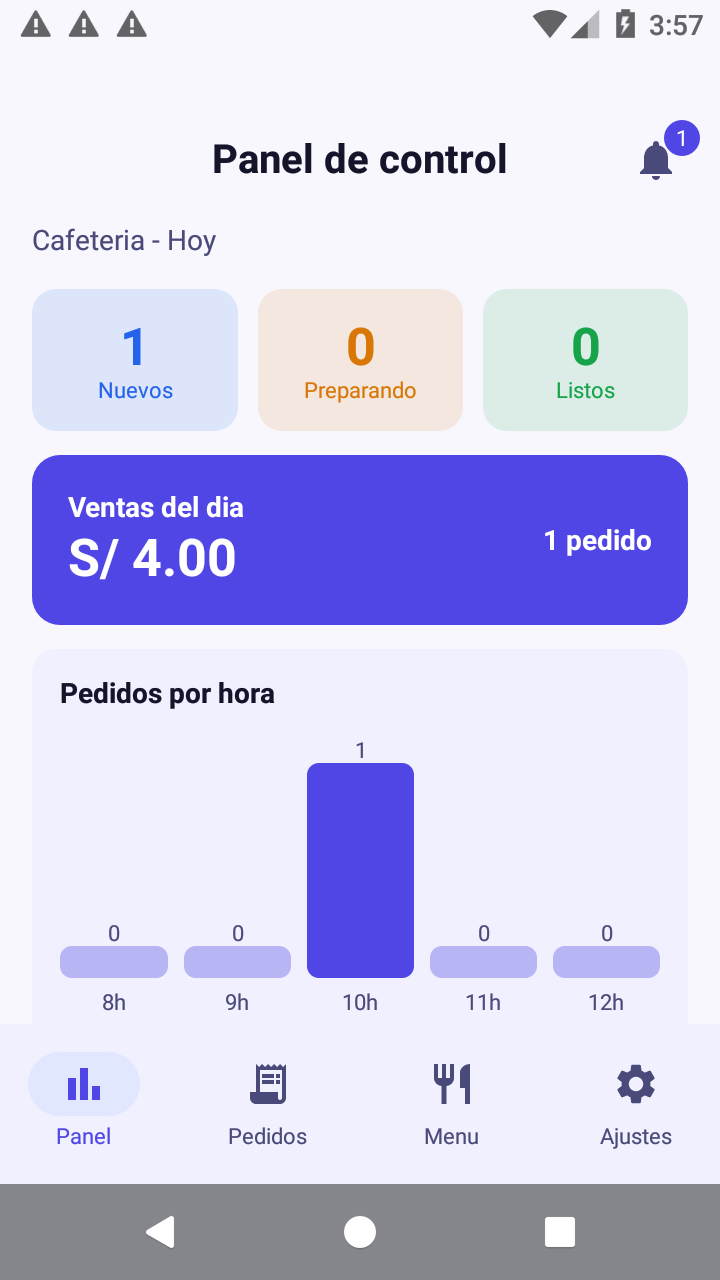
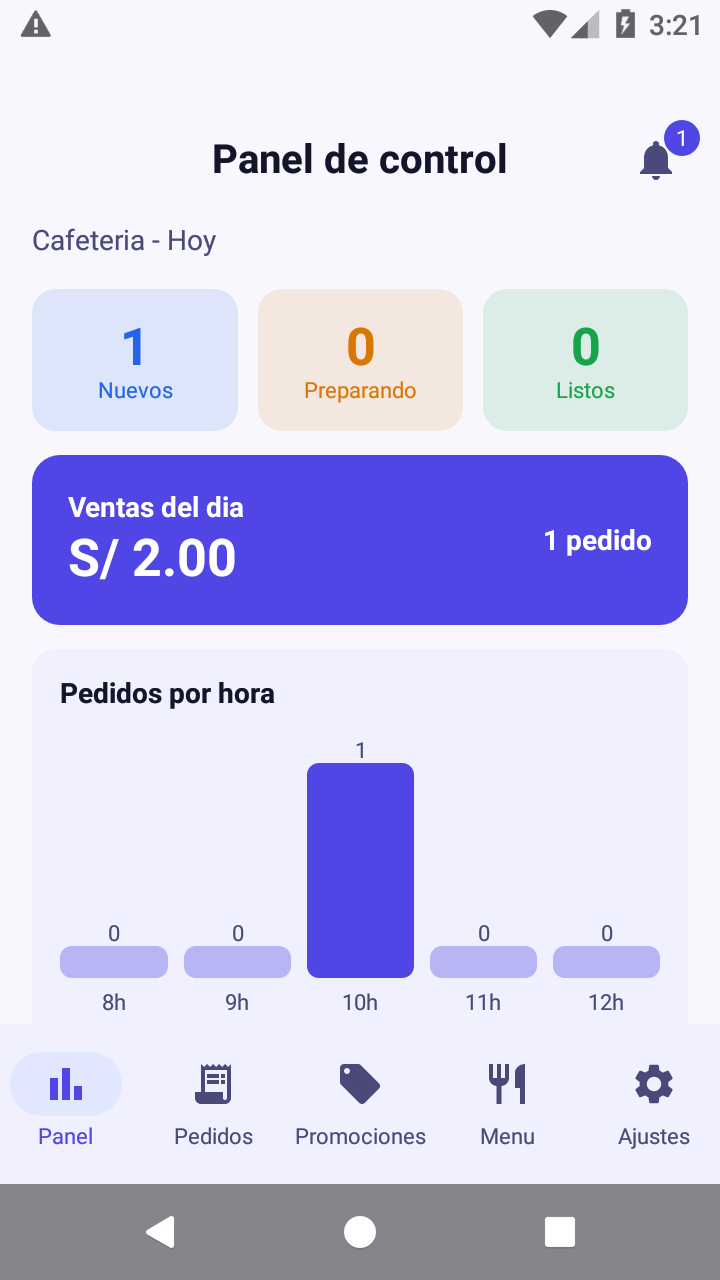
ia: agrega README.md con la documentacion de la entrega
Documentacion de la Fase 2, con lo que pide el enunciado:

- Descripcion de la app y de los dos perfiles, con las cuentas de
  prueba.
- Las 5 mejoras de la Fase 2 y en que capas se tocaron.
- 12 capturas reales del emulador: ambos perfiles, incluyendo las
  pantallas nuevas (registro, busqueda, boton Repetir y reporte del
  dia).
- Estructura de paquetes completa.
- Las 5 tablas con sus claves (PK, FK, candidatas y compuestas) y las
  reglas de negocio de estados y promociones.
- Las respuestas de la seccion 9 'Para pensar'.
- Como compilar y la tabla de commits de esta fase.

diff --git a/Semana08/CafeCampus(Con-IA)/app/src/main/java/com/huaman/cafecampus/ui/navigation/NavCafe.kt b/Semana08/CafeCampus(Con-IA)/app/src/main/java/com/huaman/cafecampus/ui/navigation/NavCafe.kt
@@ -120,6 +120,7 @@ fun NavCafe(
     val sinBarra = rutaActual in listOf(
         Rutas.SPLASH,
         Rutas.LOGIN,
+        Rutas.REGISTRO,
         Rutas.DETALLE_PRODUCTO,
         Rutas.CONFIRMAR_PEDIDO,
         Rutas.SEGUIMIENTO,

diff --git a/Semana08/CafeCampus(Con-IA)/README.md b/Semana08/CafeCampus(Con-IA)/README.md
@@ -1,0 +1,206 @@
+# CafeCampus (Con-IA)
+
+**Laboratorio MVVM + Room — Semana 08 (Fase 2, con IA)**
+TECSUP · Programación en Móviles · 4to Ciclo · Diseño y Desarrollo de Software
+**Juan León Suiyon**
+
+> Rama `Con-IA`. Es la **Fase 2** del laboratorio: la app base de la
+> [Fase 1](https://github.com/Jamestecsup/-Moviles_Android/tree/Sin-IA) (rama
+> `Sin-IA`) más **5 mejoras** hechas con asistencia de IA, documentadas en
+> [`PROMPTS.md`](PROMPTS.md).
+
+---
+
+## 1. Qué es CafeCampus
+
+App de pedidos para la cafetería del campus, con **dos perfiles en el mismo
+dispositivo** sobre una **única base de datos Room**:
+
+- **Estudiante** — pide, sigue su pedido y puede repetir un pedido anterior.
+- **Administrador** — atiende los pedidos, gestiona el menú y las promociones,
+  y consulta el reporte del día.
+
+Cuando el administrador cambia el estado de un pedido, el estudiante lo ve
+reflejado **sin reiniciar la app**: las pantallas observan `Flow` de Room.
+
+**Stack:** Kotlin · Jetpack Compose + Material 3 (sin XML) · Room 2.8.5 ·
+DataStore · Navigation Compose · **MVVM + Repository (interface)**.
+
+### Cuentas de prueba
+
+| Perfil | Correo | Clave |
+|---|---|---|
+| Estudiante | `juan@campus.test` | `1234` |
+| Administrador | `admin@cafe.test` | `admin` |
+
+> Los datos son **ficticios** (Ley 29733). Las fotos de producto vienen de
+> Wikimedia Commons con licencias libres (ver
+> `app/src/main/assets/img/productos/ATRIBUCIONES.md`).
+
+---
+
+## 2. Mejoras de la Fase 2
+
+| # | Mejora | Capas |
+|---|---------|-------|
+| 1 | **Repetir pedido** — botón en el historial que vuelve a cargar los productos al carrito | ViewModel + View |
+| 2 | **Registro de estudiante** — pantalla de cuenta nueva con validaciones y correo único | DAO + Repository + ViewModel + View |
+| 3 | **Reporte del día** — producto más vendido y total por forma de pago, con consultas reales de Room | DAO + Repository + ViewModel + View |
+| 4 | **Animaciones y estados vacíos** — stepper animado, transiciones e ilustraciones | View |
+| 5 | **Buscar en el menú** — el filtro pasa al `MenuViewModel` (`combine` de `StateFlow`) | ViewModel + View |
+
+Los prompts usados, lo que generó la IA, lo que hubo que corregir a mano y la
+reflexión están en [`PROMPTS.md`](PROMPTS.md).
+
+---
+
+## 3. Capturas
+
+### Perfil Estudiante
+
+| Menú con promociones | Buscar en el menú | Repetir pedido |
+|---|---|---|
+| ![Menú](capturas/01_menu_cliente.png) | ![Búsqueda](capturas/03_busqueda_menu.png) | ![Mis pedidos](capturas/05_mis_pedidos_repetir.png) |
+
+| Crear cuenta (nuevo) | Seguimiento del pedido |
+|---|---|
+| ![Registro](capturas/02_registro_estudiante.png) | ![Seguimiento](capturas/04_seguimiento.png) |
+
+### Perfil Administrador
+
+| Panel de control | Reporte del día (nuevo) | Pedidos por estado |
+|---|---|---|
+| ![Panel](capturas/07_panel_admin.png) | ![Reporte](capturas/09_reporte_del_dia.png) | ![Pedidos](capturas/10_pedidos_admin.png) |
+
+| Gestión de promociones | Gestión del menú |
+|---|---|
+| ![Promociones](capturas/11_promociones_admin.png) | ![Menú admin](capturas/12_menu_admin.png) |
+
+---
+
+## 4. Estructura de paquetes
+
+```
+com.huaman.cafecampus
+├── CafeApp.kt                     Application: base Room + siembra de datos
+├── MainActivity.kt                arma NavCafe + CafeTheme(rol)
+├── data
+│   ├── local
+│   │   ├── CafeDatabase.kt        singleton Room (cafecampus.db), version 3
+│   │   ├── DatosIniciales.kt      6 productos, 2 usuarios, 2 promociones
+│   │   ├── entity                 Producto · Usuario · Pedido · DetallePedido
+│   │   │                          Promocion
+│   │   ├── dao                    ProductoDao · UsuarioDao · PedidoDao
+│   │   │                          PromocionDao
+│   │   └── relation               PedidoConDetalle · ProductoVendido
+│   │                              TotalPorPago
+│   ├── prefs
+│   │   └── PreferenciasStore.kt   DataStore (perfil, modo oscuro, pedidos)
+│   └── repository
+│       ├── CafeRepository.kt        EL CONTRATO (interface)
+│       └── CafeRepositoryRoom.kt    la única que conoce los DAOs
+├── model                           Rol · EstadoPedido · ItemCarrito
+│                                   ProductoEnOferta · CalculoPromociones
+├── viewmodel
+│   ├── CafeViewModelFactory.kt     ViewModels compartidos
+│   ├── MenuViewModel.kt            carta, promociones, búsqueda y carrito
+│   ├── SesionViewModel.kt          login, registro y preferencias
+│   ├── PedidosClienteViewModel.kt  confirmar, seguir y repetir pedido
+│   ├── PanelAdminViewModel.kt      panel de control
+│   ├── PedidosAdminViewModel.kt    bandeja por estado
+│   ├── MenuAdminViewModel.kt       alta/edición/baja del menú
+│   ├── PromocionesViewModel.kt     crear/editar/activar/eliminar promociones
+│   └── ReporteViewModel.kt         reporte del día
+└── ui
+    ├── theme                       Color · Type · Theme (CafeTheme(rol))
+    ├── components                  AppTopBar · CafeButton · CafeTextField
+    │                               EstadoChip · EstadoVacio · ProductoCard
+    │                               ProductoIcono · ImagenProducto · PedidoCard
+    │                               StepperEstado
+    ├── navigation                  Rutas · NavCafe
+    ├── cliente                     Splash · Login · Registro · Menu
+    │                               DetalleProducto · ConfirmarPedido
+    │                               Seguimiento · MisPedidos · Perfil
+    │                               Promociones
+    └── admin                       Panel · PedidosAdmin · DetallePedidoAdmin
+                                    MenuAdmin · FormularioProducto
+                                    FormularioPromocion · Reporte · Ajustes
+```
+
+---
+
+## 5. Base de datos
+
+`app/src/main/assets/db/cafecampus.sql` es la fuente de verdad del esquema
+(5 tablas). Room genera exactamente esas tablas.
+
+| Tabla | Columnas | Claves |
+|---|---|---|
+| `usuarios` | id, nombre, correo, clave, rol | **PK** `id` · **candidata** `correo` UNIQUE |
+| `productos` | id, nombre, descripcion, categoria, precio, disponible, icono, imagenRuta | **PK** `id` · **candidata** `nombre` UNIQUE |
+| `pedidos` | id, clienteId, estado, horaRecojo, pago, nota, total, fecha | **PK** `id` · **FK** `clienteId` → `usuarios.id` |
+| `detalle_pedido` | id, pedidoId, productoId, nombreProducto, cantidad, precioUnitario | **PK** `id` · **FK** `pedidoId` → `pedidos.id` (CASCADE) · **compuesta** `(pedidoId, productoId)` UNIQUE |
+| `promociones` | id, tipo, valorReferencia, descuentoPorcentaje, fechaInicio, fechaFin, activo | **PK** `id` · **compuesta** `(tipo, valorReferencia)` UNIQUE |
+
+### Reglas de negocio
+
+- **Estados del pedido:** `RECIBIDO → PREPARANDO → LISTO → ENTREGADO`, con
+  `CANCELADO` aparte.
+- **Promociones:** aplican a **un producto** o a **una categoría** entera. Si un
+  producto tiene ambas, **gana la del producto** (es más específica). Solo
+  cuentan las vigentes (`activo` y dentro de `fechaInicio`/`fechaFin`).
+- **El pedido guarda el precio final**: es una foto del momento, así que si
+  luego se edita la promoción, ese pedido no cambia.
+
+---
+
+## 6. 9. Para pensar
+
+| Pregunta | Tu respuesta |
+|---|---|
+| ¿Por qué el Repository es una interface? | Para que la app dependa del *contrato* y no de SQLite: mañana puede hablar con un servidor sin tocar ni un ViewModel ni una pantalla. |
+| ¿Por qué `crearPedido` es suspend y `observarPedidosCliente` es Flow? | `crearPedido` cambia datos una sola vez: se espera y listo. `observar...` debe *avisar* cuando cambian, así que emite el pedido actual y cada vez que otro perfil lo modifique. |
+| ¿Qué pasaría si dos perfiles usaran bases de datos distintas? | El estudiante vería un pedido que el administrador nunca vería: se rompería justo lo central del laboratorio, que es que el admin actúa y el estudiante lo ve al instante. |
+| ¿Qué debería cambiar si mañana los datos viven en un servidor? | Solo `CafeRepositoryRoom`: una implementación nueva de la misma interface. Los ViewModels, las pantallas y el tema no se tocan. |
+
+---
+
+## 7. Cómo compilar
+
+```bash
+# desde la carpeta CafeCampus(Con-IA)
+./gradlew :app:assembleDebug
+
+# instalar en el emulador / dispositivo
+adb install -r app/build/outputs/apk/debug/app-debug.apk
+```
+
+- Requiere **Android Studio** (o el SDK de Android) y **JDK 17**.
+- `local.properties` no se versiona: se genera al abrir el proyecto, o Gradle
+  usa la variable `ANDROID_HOME`.
+- Room + KSP: la versión de KSP en `gradle/libs.versions.toml` va fijada a la
+  misma que la de Kotlin.
+- Si cambias una entidad después de ejecutar la app, sube `version` en
+  `CafeDatabase` o desinstala la app: si no, Room avisa con
+  *"cannot verify the data integrity"*.
+
+---
+
+## 8. Commits de esta fase
+
+| # | Mensaje | Mejora |
+|---|---------|--------|
+| 1 | `ia: copia el proyecto CafeCampus a la carpeta CafeCampus(Con-IA)` | base de la Fase 2 |
+| 2 | `ia: agrega repetir pedido en el historial del estudiante` | Mejora 1 |
+| 3 | `ia: agrega pantalla de registro de estudiante` | Mejora 2 |
+| 4 | `ia: agrega reporte del dia con producto mas vendido y total por forma de pago` | Mejora 3 |
+| 5 | `ia: agrega animaciones y estados vacios con ilustracion` | Mejora 4 |
+| 6 | `ia: mueve el filtro de busqueda del menu al MenuViewModel` | Mejora 5 |
+| 7 | `ia: agrega PROMPTS.md con los prompts usados` | documentación |
+| 8 | `ia: agrega README.md con la documentacion de la entrega` | documentación |
+
+La Fase 1 (rama `Sin-IA`) tiene los 13 commits del laboratorio, uno por paso.
+
+---
+
+*Fase 2 — Mejora profesional asistida por IA · TECSUP · Programación en Móviles*
